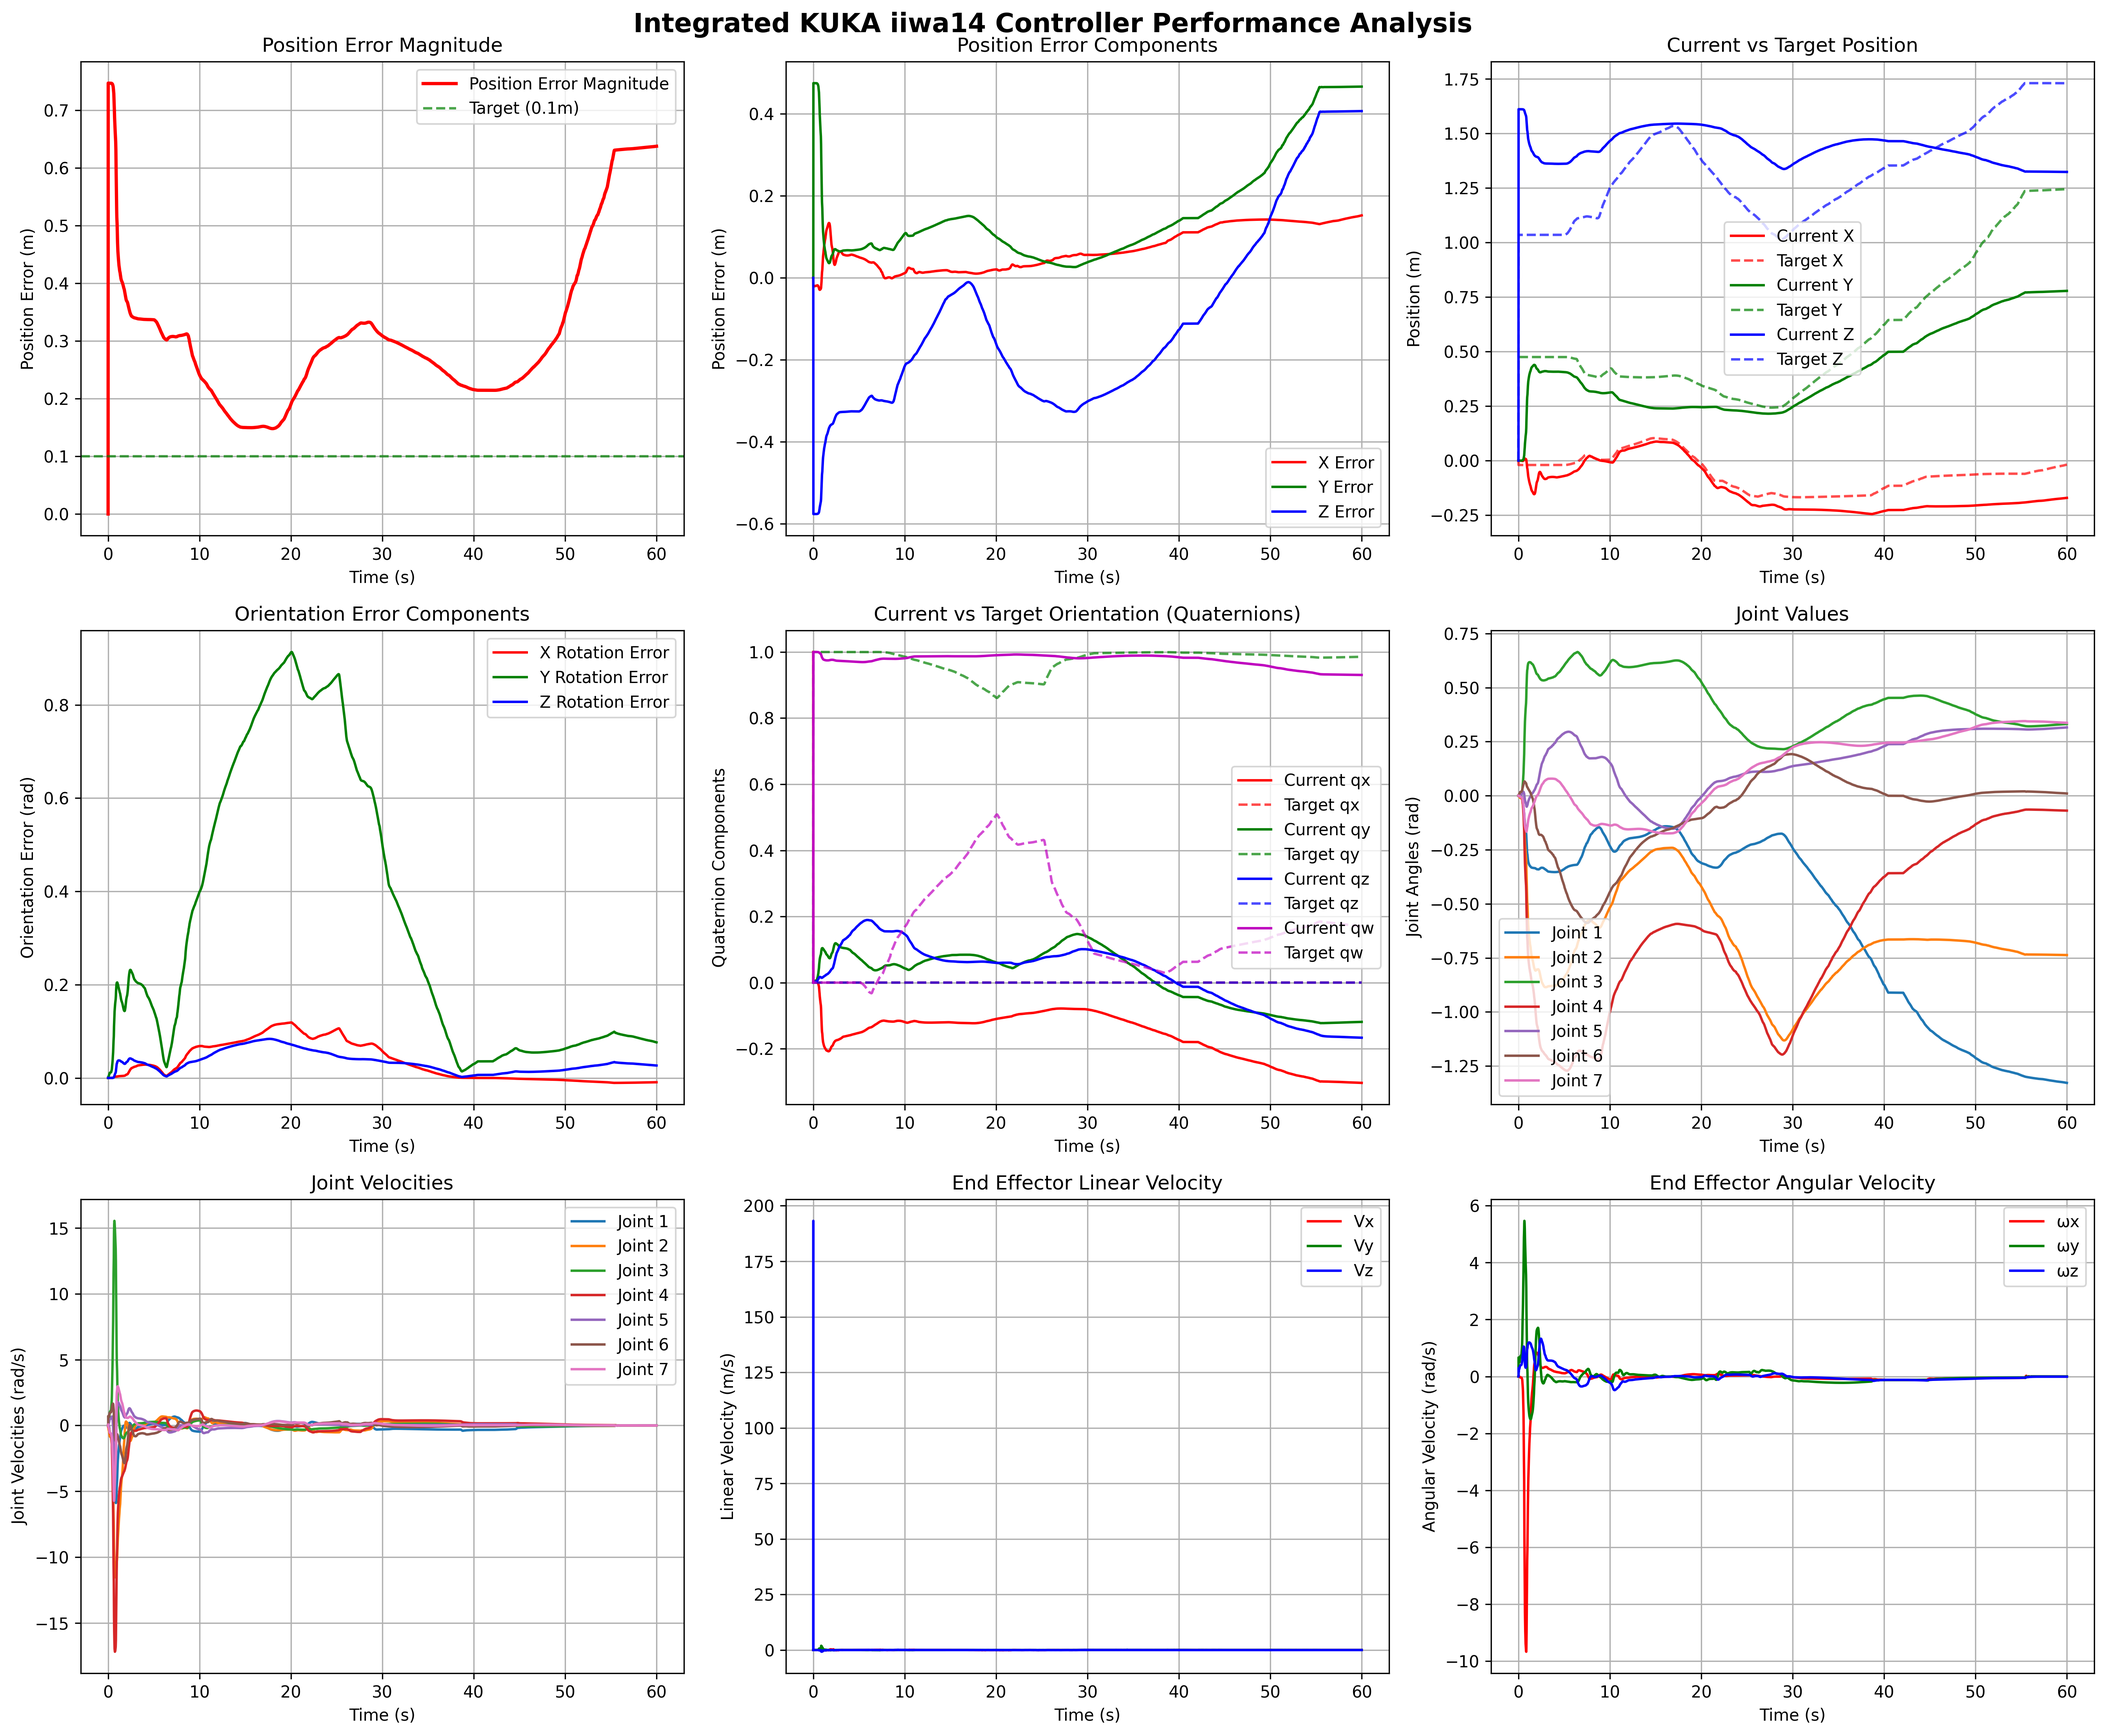
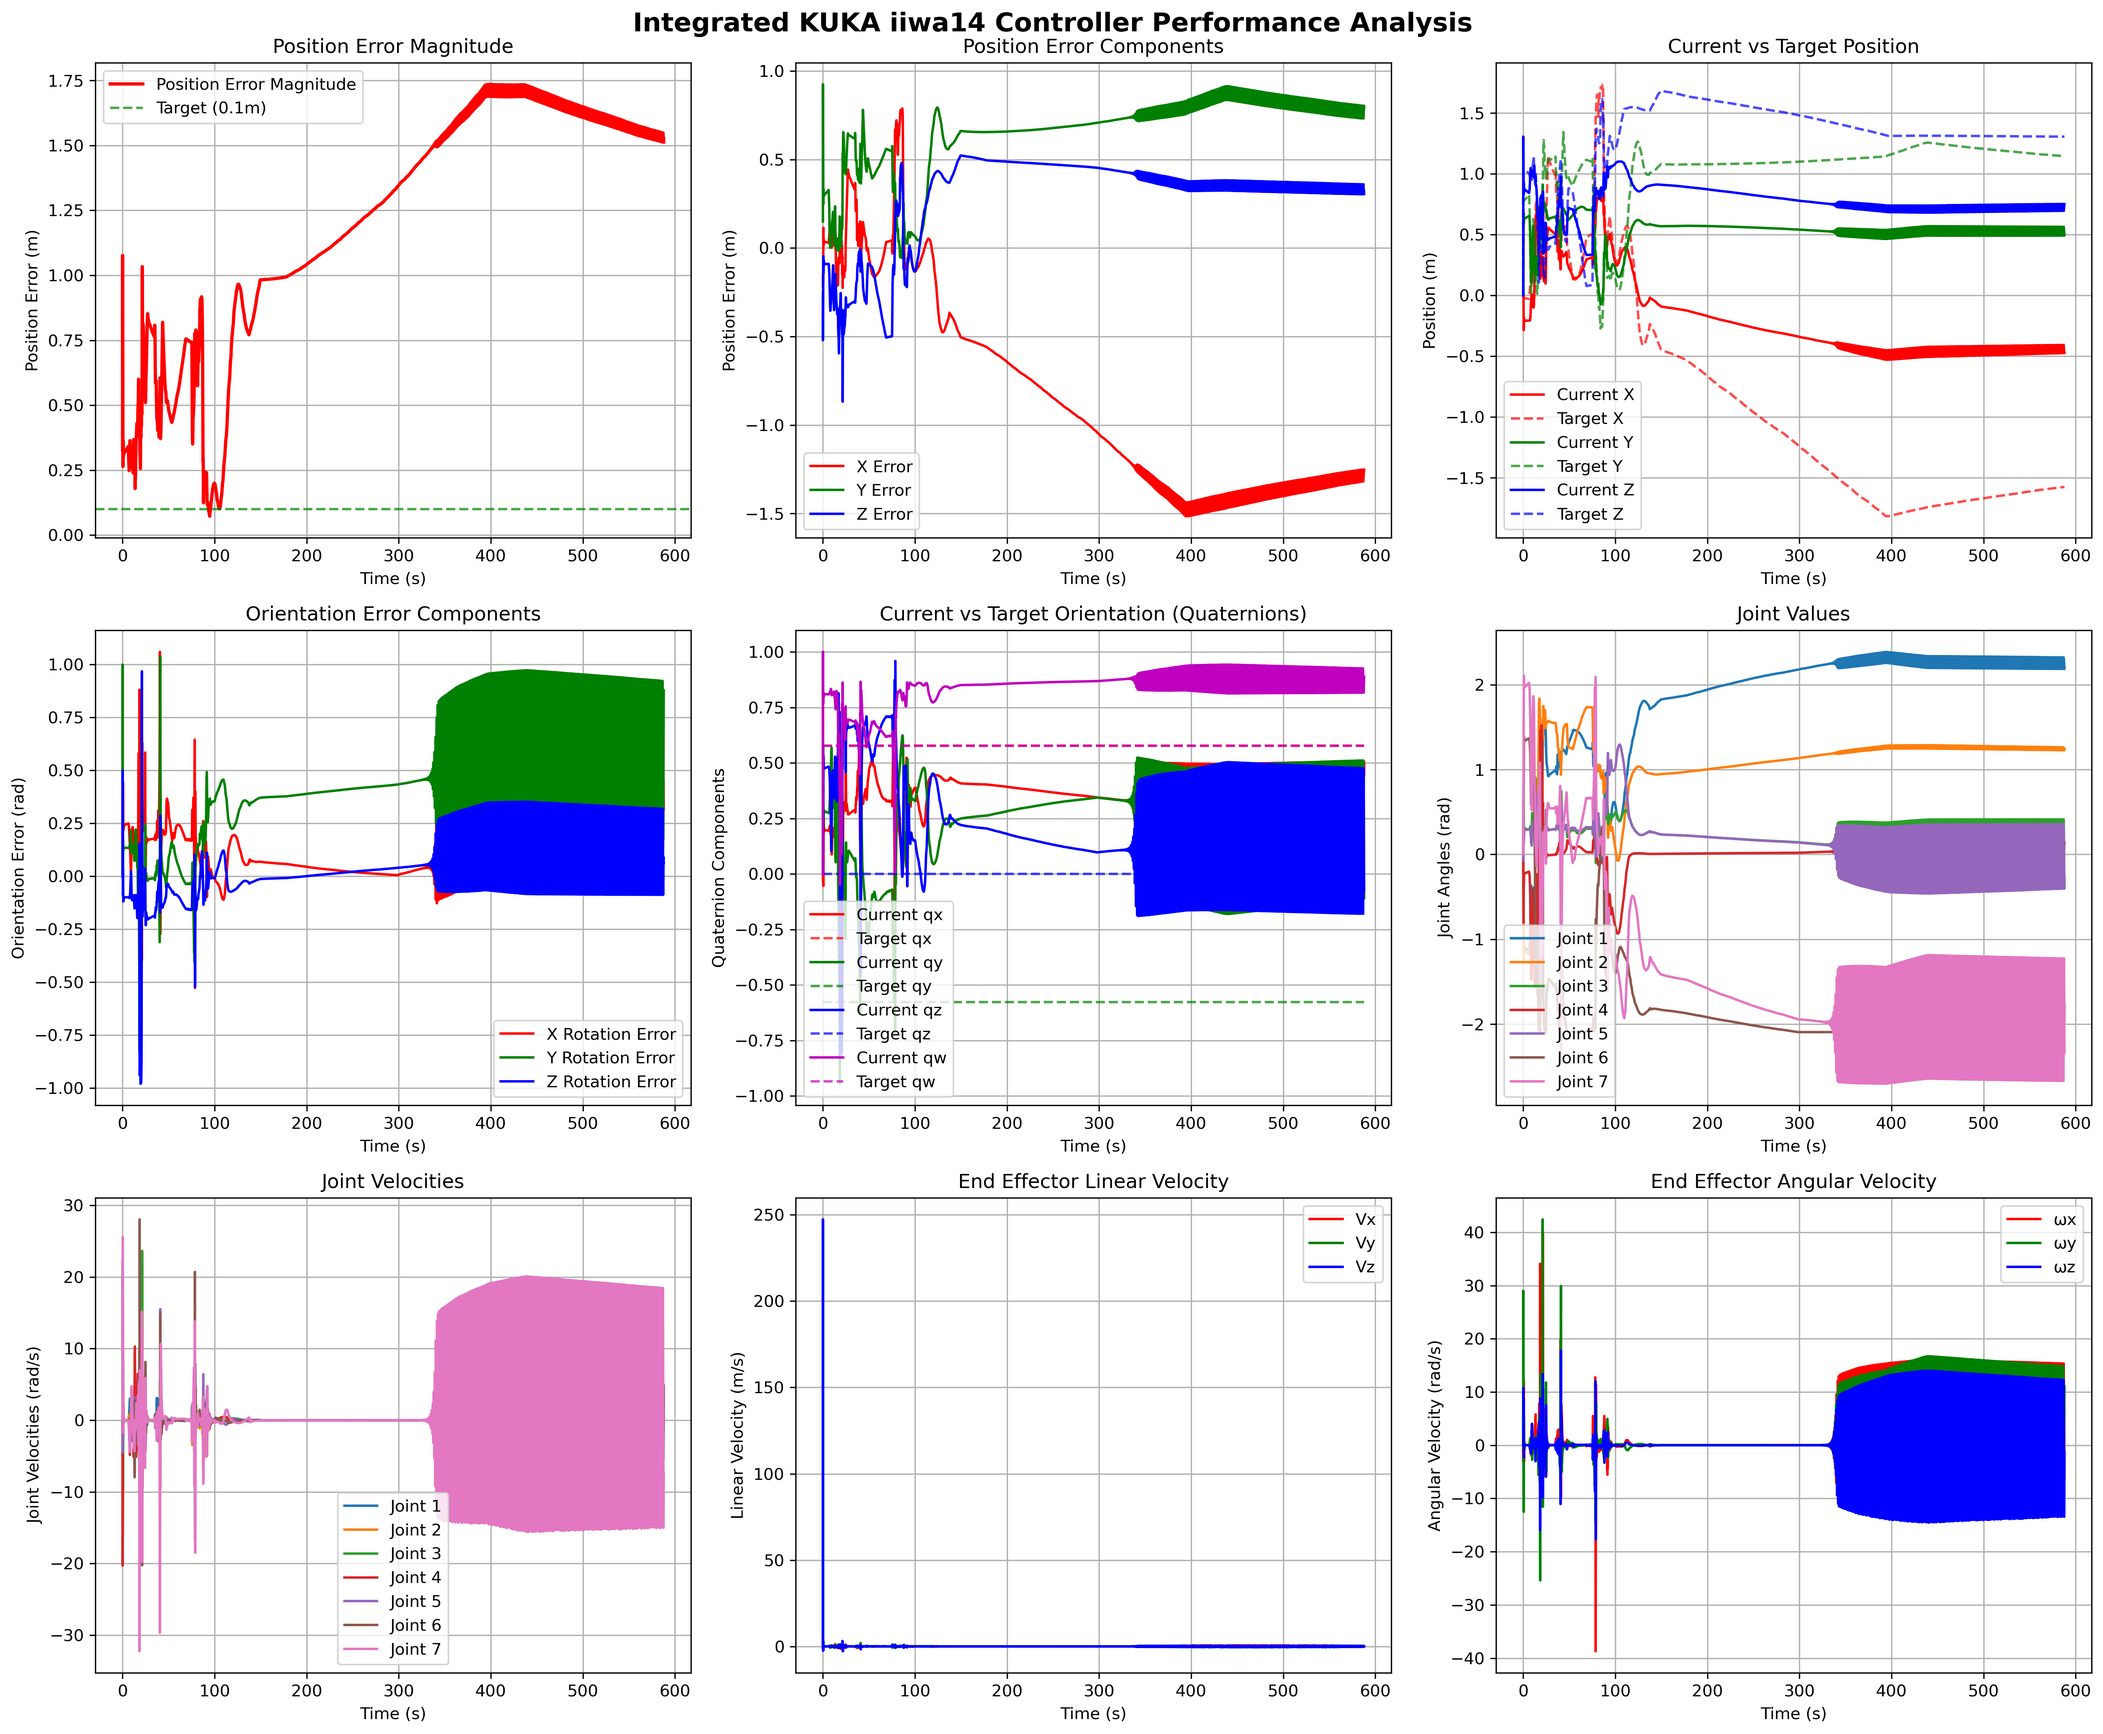
Improved (kinda fixed) the orientation controller (v=k o + k_v w)

diff --git a/Project1/integrated_simulation.py b/Project1/integrated_simulation.py
@@ -248,8 +248,8 @@ class IntegratedZeroGravitySimulation:
             # Insert gripper after the attachment site
             gripper_xml = '''
                     <!-- Gripper center site for positioning -->
-                    <geom class="visual" type="sphere" size="0.005" pos="0 0 0.35" rgba="1 0 1 1"/>
-                    <site name="gripper_center" pos="0 0 0.35" size="0.5" rgba="1 0 1 1"/>
+                    <!--geom class="visual" type="sphere" size="0.005" pos="0 0 0.35" rgba="1 0 1 1"-->
+                    
                     
                     <!-- Robotiq 2f85 Gripper mounted on attachment_site -->
                     <body name="gripper_base_mount" pos="0 0 0.045" childclass="2f85">
@@ -332,6 +332,7 @@ class IntegratedZeroGravitySimulation:
                         </body>
 
                       </body>
+                    <site name="gripper_center" pos="0 0 0" size="0.025" rgba="1 0 1 1"/>
                     </body>
             '''
             
@@ -345,7 +346,7 @@ class IntegratedZeroGravitySimulation:
         box_door_assembly = '''
     
     <!-- Box/Door Assembly (floating in zero gravity, positioned closer to robot) -->
-    <body name="box_door_assembly" pos="0.0 0.4 1.2" quat="0.0 1.0 1.0 0">
+    <body name="box_door_assembly" pos="0.0 0.7 1.2" quat="0.0 1.0 1.0 0">
       <freejoint name="assembly_freejoint"/>
       
       <!-- Base Box -->
@@ -365,6 +366,7 @@ class IntegratedZeroGravitySimulation:
           <!-- Z-axis (blue) -->
           <geom name="frame_z_axis" type="capsule" size="0.005 0.1" pos="0 0 0.1" rgba="0 0 1 0.8" 
                 contype="0" conaffinity="0"/>
+        <site name="door_handle_site" pos="0 0 0" size="0.02" rgba="1 1 0 1"/>
         </body>
     
         <!-- Hinged Door -->
@@ -378,7 +380,7 @@ class IntegratedZeroGravitySimulation:
           <geom name="door_geom" type="mesh" mesh="Door" material="mat_door" contype="1" conaffinity="1" friction="0.7 0.1 0.1"/>
           <inertial pos="0 0 0" mass="0.2" diaginertia="0.02 0.02 0.02"/>
         </body>
-        <site name="door_handle_site" pos="0.075 -0.02 0.165" size="0.02" rgba="1 1 0 1"/>
+        
       </body>
     </body>
         '''
@@ -514,10 +516,10 @@ class IntegratedZeroGravitySimulation:
         if handle_site_id >= 0:
             self.target_position = self.data.site_xpos[handle_site_id]
         else:
-            self.target_position = np.array([1.3, 0.5, 0.5])
+            self.target_position = np.array([0.3, 0.5, 0.5])
         
         # Get target orientation from box using consistent quaternion approach
-        box_id = mujoco.mj_name2id(self.model, mujoco.mjtObj.mjOBJ_BODY, "box_door_assembly")
+        box_id = mujoco.mj_name2id(self.model, mujoco.mjtObj.mjOBJ_SITE, "door_handle_site")
         if box_id >= 0:
             target_quat = np.array([-1, 0, -1, 0]) * self.data.xquat[box_id].copy()
             # Check for valid quaternion (non-zero norm)
@@ -537,7 +539,12 @@ class IntegratedZeroGravitySimulation:
         current_angular_vel = J_rot @ current_joint_vel  # Angular velocity in world frame
         
         # 2. Calculate position error
-        position_error = self.target_position - current_pos
+        position_error = self.target_position - current_pos + np.array([-0.15, 0.15, -0.25])  # Slight Z offset for better approach
+        
+        #RotationCorrecter=np.array([[1,  0,  0],[ 0,  0,  -1],[ 0,  1, 0]])
+        RotationCorrecter=np.array([[0,  -1,  1],[ 0,  0,  -1],[ -1,  0, 0]])
+        #RotationCorrecter=Rotation.from_euler('xyz', [0, 180, 0],degrees=True)
+        target_orient_mat = RotationCorrecter @ target_orient_mat
         
         # 3. Calculate orientation error using rotation matrices (fixed direction)
         R_error = current_orient_mat.T @ target_orient_mat
@@ -551,7 +558,9 @@ class IntegratedZeroGravitySimulation:
         
         # 4. Calculate angular velocity error
         target_angular_vel = self.data.qvel[3:6] if self.model.nv > 6 else np.zeros(3)
-        angular_vel_error = target_angular_vel - current_angular_vel
+        print("Target Angular Velocity:", target_angular_vel)
+        #angular_vel_error = target_angular_vel - current_angular_vel
+        angular_vel_error = orientation_error
         
         # 5. Get Jacobian (position part only, 3x7)
         J = self.compute_jacobian()
@@ -560,10 +569,13 @@ class IntegratedZeroGravitySimulation:
         # 6. Controller gains (velocity control - enhanced Z control and proper orientation)
         K_pos = np.diag([8.2, 10.2, 7.0]) * 1.0         # Position velocity gains
         K_angular_vel = np.diag([1.0, 1.0, 1.0]) * 0.05    # Angular velocity damping gain matrix
+        K_orient_error= np.diag([5.0, 5.0, 0.0]) * 1.5    # Orientation error gain matrix
 
         # 7. Compute desired Cartesian velocities (PD control in Cartesian space)
         desired_position_velocity = K_pos @ position_error
-        desired_angular_velocity = K_angular_vel @ angular_vel_error
+
+        angular_vel_err = current_angular_vel - target_angular_vel
+        desired_angular_velocity = (K_orient_error @ orientation_error) - (K_angular_vel @ angular_vel_err)
         
         # Combine position and angular velocities for 6DOF control
         desired_cartesian_velocity = np.concatenate([desired_position_velocity, desired_angular_velocity])
@@ -586,7 +598,7 @@ class IntegratedZeroGravitySimulation:
             self.data.ctrl[len(joint_velocities_clipped):] = 0.0
         
         # 10. Store target orientation for frame visualization
-        self.current_target_orientation = target_orient_mat.copy()
+        self.current_target_orientation = target_orient_mat
         
         # 11. Collect data for plotting
         self.collect_controller_data(current_pos, current_orient_mat, target_orient_mat, 
